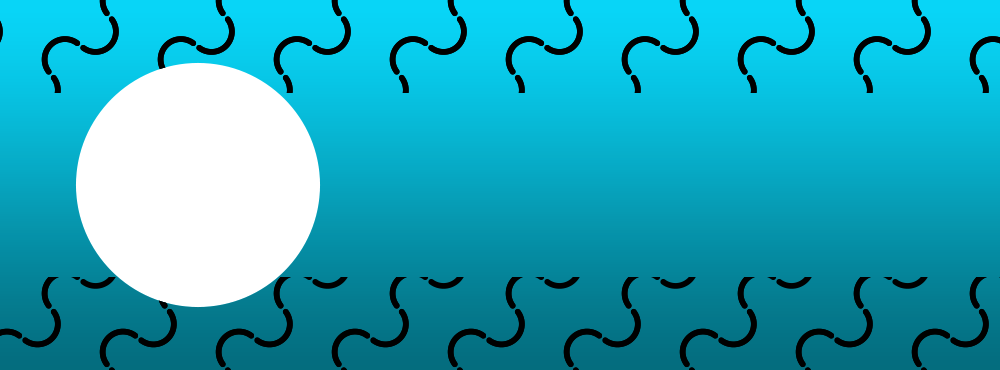
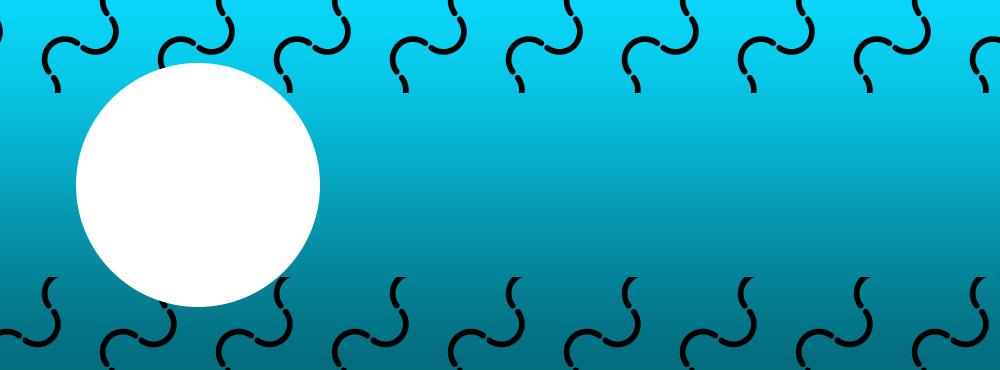
Fixed card creation sql settings and moved from message over to join event. dialed in. Changed top layer image, removed circle. Looks more clean?

diff --git a/utils/pogfunctions.py b/utils/pogfunctions.py
@@ -75,13 +75,14 @@ def create_welcome_card(avatarRequest, user, server):
 
     compiled = baselayer.copy()
 
-    #                               ,right(x)
-    # baselayer.paste(avatarlayer, (0, 0))fd
-    #                                   ^down(y)
+    #               ,right(x)
+    # paste(image, (0, 0))
+    #                  ^down(y)
 
     compiled.paste(avatarlayer, (46, 37), mask=avatarlayer)
     compiled.paste(toplayer, (0, 0), mask=toplayer)
-    compiled.paste(circlelayer, (0, 0), mask=circlelayer)
+    # Going to leave the circle off for now, I think it looks better without it? Maybe I'm wrong. Lol.
+    # compiled.paste(circlelayer, (0, 0), mask=circlelayer)
 
     name_font = ImageFont.truetype("fonts/Vegur-Bold.otf", 50)
     msg_font = ImageFont.truetype("fonts/Vegur-Light.otf", 30)
@@ -89,17 +90,17 @@ def create_welcome_card(avatarRequest, user, server):
     member_num_font = ImageFont.truetype("fonts/Vegur-Light.otf", 20)
 
     draw = ImageDraw.Draw(compiled)
-    draw.text((365, 120), str(user), (255, 255, 255), font=name_font)
+    draw.text((365, 120), str(user).upper(), (255, 255, 255), font=name_font)
     draw.text((365, 170), f"HAS JOINED THE SERVER", (255, 255, 255), font=msg_font)
     draw.text((365, 200), f"ID#{user.id}", (255, 255, 255), font=id_font)
-    draw.text((365, 225), f"MEMBER#{server.member_count}", (255, 255, 255), font=member_num_font)
+    draw.text((365, 225), f"MEMBER#{server.member_count}", (255, 255, 255), font=member_num_font )
 
     arr = io.BytesIO()
     compiled.save(arr, format='PNG')
     arr.seek(0)
     file = discord.File(fp=arr, filename=f'WelcomeCard.png')
     return file
-    # compiled.save(f'{welcomecardfolder / "compiled/welcomecard.png"}')
+
 
 
 

diff --git a/cogs/events.py b/cogs/events.py
@@ -24,13 +24,21 @@ class Events(commands.Cog):
     @commands.Cog.listener()
     # Look for members joining.
     async def on_member_join(self, member):
+        channel = self.bot.get_channel(get_welcome_channel(member.guild.id))
         print(f'{member} joined.')
         welcomemessage = get_welcome_message(member.guild.id)
         if welcomemessage != "None":
-            channel = self.bot.get_channel(get_welcome_channel(member.guild.id))
+
             welcomemessage = welcomemessage.replace("%USER%", f"{member.mention}")
             welcomemessage = welcomemessage.replace("%SERVER%", f"{member.guild}")
             await channel.send(welcomemessage)
+
+        welcomecardon = 0
+        welcomecardon = get_welcome_card(member.guild.id)
+        if welcomecardon == 1:
+            avatarRequest = (requests.get(member.avatar_url)).content
+            # Testing create welcome card on message send right now, until we get it done.
+            await channel.send(file=create_welcome_card(avatarRequest, member, member.guild))
 
     @commands.Cog.listener()
     # Look for members leaving.

diff --git a/utils/pogesquelle.py b/utils/pogesquelle.py
@@ -146,7 +146,8 @@ def get_welcome_message(serverid):
     cur.execute(f'SELECT Welcome FROM servers WHERE ServerID={serverid}')
     data = cur.fetchone()
     data = data[0]
-    data = decodebase64(data)
+    if data != "None":
+        data = decodebase64(data)
     # Commit the database changes.
     conn.commit()
     conn.close()
